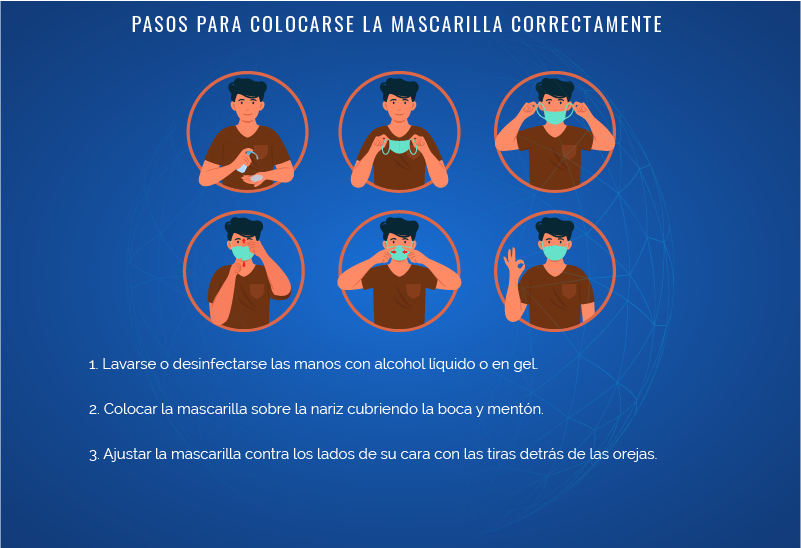
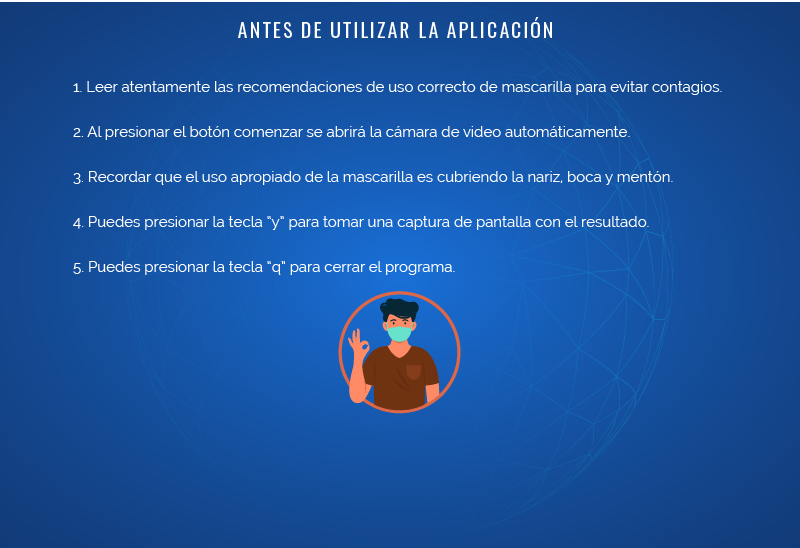
v0.3

Changed region(s): [[0.0938, 0.1241, 0.9062, 0.7755], [0.1562, 0.031, 0.8438, 0.0931], [0.125, 0.8066, 0.8125, 0.8376]]

diff --git a/mask_detection.py b/mask_detection.py
@@ -75,7 +75,7 @@ trained_model = load_model("mask_detector.model")
 # Inicializacion del video
 vs = VideoStream(src=0).start()
 
-def ventana3() :
+def ventana4() :
 	# While infinito donde se procesa toda la informacion de la camara
 	while True:
 		# Redimensionamos el tamaño de la camara
@@ -117,17 +117,15 @@ def ventana3() :
 		if cv2.waitKey(1) & 0xFF == ord("y"):  # save on pressing "y"
 			cv2.imwrite("captura1.png", frame)
 
-
 def ventana2():
 	ventana1.withdraw()
-
 	ventana2 = tk.Toplevel()
 	ventana2.geometry("800x548")
 	ventana2.title("Mask detection")
 	fondo = tk.PhotoImage(file="images/foto2.png")
 	lblFondo = tk.Label(ventana2, image=fondo).place(x=0, y=0)
 
-	boton2 = tk.Button(ventana2, text="COMENZAR", command=ventana3, width=13)
+	boton2 = tk.Button(ventana2, text="SIGUIENTE", command=ventana3, width=13)
 	boton2.place(x=490, y=490)
 	myfont = font.Font(family='Courier', size=15, weight='bold')
 	boton2.config(fg="#6C1D45")
@@ -135,6 +133,24 @@ def ventana2():
 	boton2['font'] = myfont
 
 	ventana2.mainloop()
+
+
+def ventana3():
+	ventana3 = tk.Toplevel()
+	ventana3.geometry("800x548")
+	ventana3.title("Mask detection")
+	fondo = tk.PhotoImage(file="images/foto3.png")
+	lblFondo = tk.Label(ventana3, image=fondo).place(x=0, y=0)
+
+	boton3 = tk.Button(ventana3, text="COMENZAR", command=ventana4, width=13)
+	boton3.place(x=490, y=490)
+	myfont = font.Font(family='Courier', size=15, weight='bold')
+	boton3.config(fg="#6C1D45")
+	boton3.config(bg="#FFFFFF", activebackground="#6C1D45")
+	boton3['font'] = myfont
+
+	ventana3.mainloop()
+
 
 #GUI
 ventana1 = tk.Tk()
